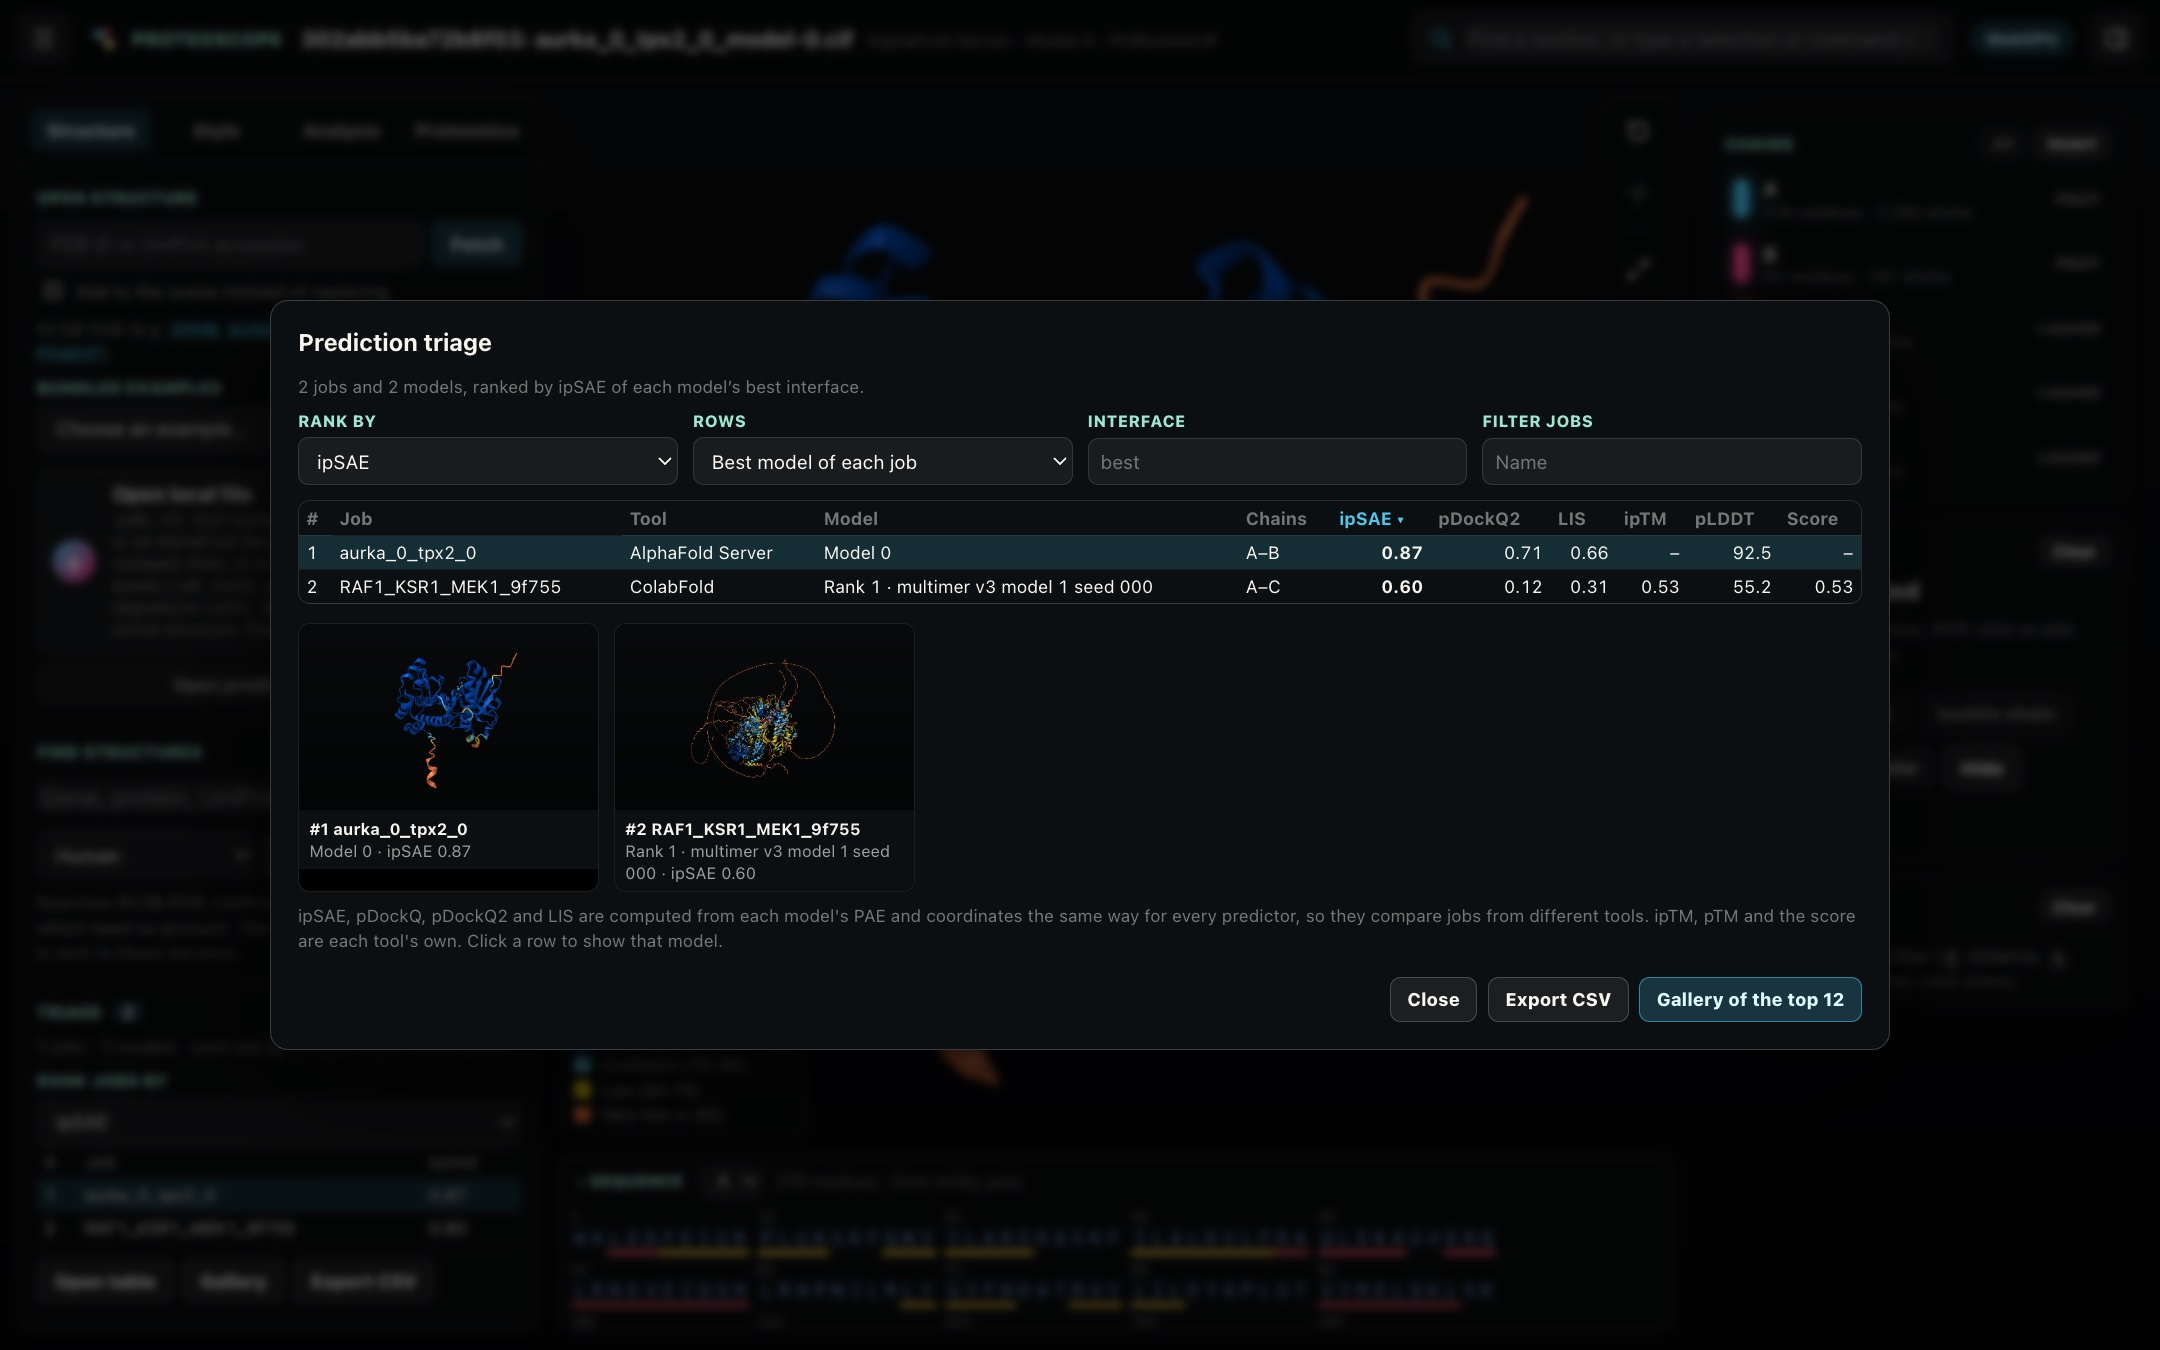
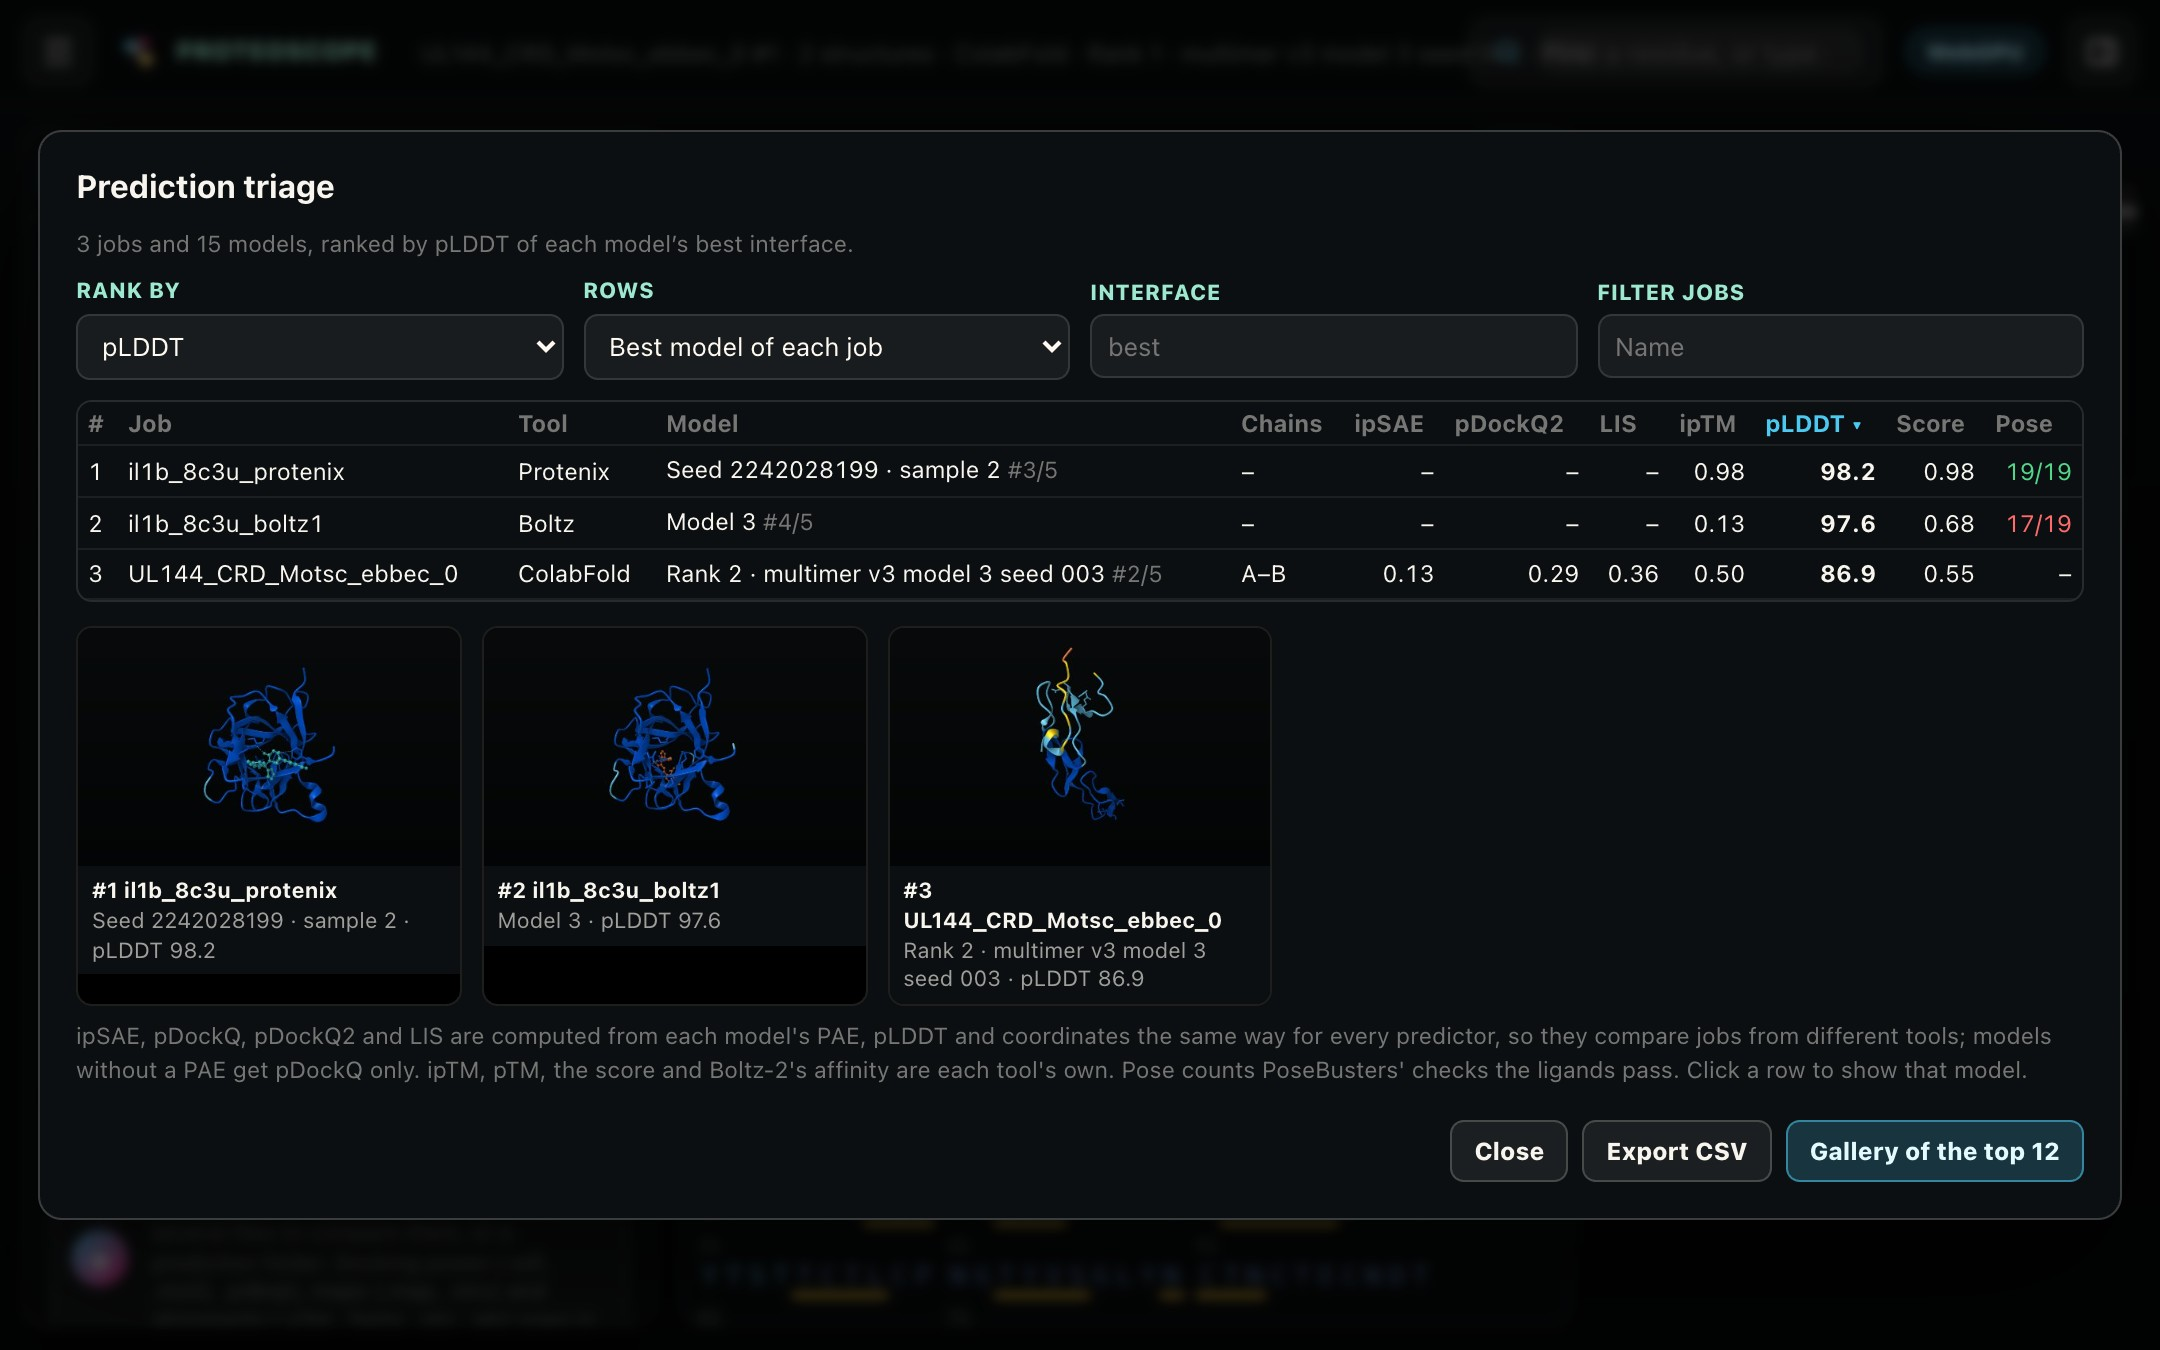
Prepare release 0.10.0
- Version 0.10.0 in main.go, CITATION.cff and the page's asset tags;
  CHANGELOG dated.
- A README image of a ligand given as SMILES: a Protenix model of the 8C3U
  co-folding example with its stereocenter inverted against the SMILES.
- The triage image retaken from the bundled prediction examples: Protenix,
  Boltz-1 and ColabFold jobs on one table, with interface scores and pose
  checks.
- The ligand card's note names the Protenix input JSON.
- Ligand chemistry, sessions and CSV files checked against v0.9.0: the
  bundled structures give the same interactions, ligand cards and pose
  checks; sessions open in both directions; CSV columns are unchanged.

diff --git a/web/app.js b/web/app.js
@@ -2259,7 +2259,7 @@ function renderPoseChecks(entry, residue) {
   const notes = [];
   if (!result.typed) {
     notes.push(entry.prediction
-      ? 'Only the contact checks ran: no bond orders are known for this ligand. For a ligand given to the predictor as SMILES, open the job\'s input with its results (a Boltz YAML, a Chai-1 FASTA; AlphaFold 3 keeps it in the folder).'
+      ? 'Only the contact checks ran: no bond orders are known for this ligand. For a ligand given to the predictor as SMILES, open the job\'s input with its results (a Boltz YAML, a Chai-1 FASTA, a Protenix JSON; AlphaFold 3 keeps it in the folder).'
       : 'Only the contact checks ran: this ligand has no dictionary entry and its file gives no bond orders.');
   }
   else if (!result.stereo) notes.push(result.stereoPending ? 'Stereocenters are compared once the dictionary entry arrives.' : 'No dictionary coordinates to compare stereocenters with.');

diff --git a/web/index.html b/web/index.html
@@ -6,7 +6,7 @@
     <meta name="theme-color" content="#050708" />
     <title>Proteoscope</title>
     <link rel="icon" href="/favicon.svg" type="image/svg+xml" />
-    <link rel="stylesheet" href="/styles.css?v=0.9.0" />
+    <link rel="stylesheet" href="/styles.css?v=0.10.0" />
   </head>
   <body>
     <main id="app" class="left-open right-open sequence-open">
@@ -917,6 +917,6 @@
         </form>
       </dialog>
     </main>
-    <script type="module" src="/app.js?v=0.9.0"></script>
+    <script type="module" src="/app.js?v=0.10.0"></script>
   </body>
 </html>

diff --git a/main.go b/main.go
@@ -26,7 +26,7 @@ import (
 //go:embed web/index.html web/styles.css web/app.js web/favicon.svg web/lib/*.js data
 var content embed.FS
 
-var version = "0.9.0"
+var version = "0.10.0"
 
 type sample struct {
 	ID             string `json:"id"`

diff --git a/proteoscope-spec/roadmap.md b/proteoscope-spec/roadmap.md
@@ -10,8 +10,9 @@ evidence; `wave9`: prediction checks; `wave10`: headless triage and SMILES
 ligands), a review of the bundled
 examples and of the public databases Proteoscope can use without API keys, and
 a prioritized plan for what comes next. Waves 1 to 6 were released together
-as version 0.6.0, wave 7 as version 0.7.0, wave 8 as version 0.8.0 and wave 9
-as version 0.9.0 ([CHANGELOG.md](../CHANGELOG.md)).
+as version 0.6.0, wave 7 as version 0.7.0, wave 8 as version 0.8.0, wave 9
+as version 0.9.0 and wave 10 as version 0.10.0
+([CHANGELOG.md](../CHANGELOG.md)).
 
 ## 1. Where v0.4 stood
 
@@ -1440,6 +1441,7 @@ orders, charges and the stereochemistry the SMILES states.
 | Boltz (`LIG1`, atoms named by canonical rank, the YAML beside the results) and Chai-1 (`LIG2`, `C1_1` names, the FASTA in the folder) | 19 of 19 checks each |
 | Erlotinib in 1M17 with only its `_chem_comp_bond` loop, as OpenFold3 writes | The same bond orders as with the complete definition; all 17 checks pass |
 | A session saved and opened again | The SMILES ligand keeps its chemistry: "All 4 stereocenters are as in the SMILES" |
+| Ligand chemistry, sessions and CSV files against v0.9.0 | The 17 bundled structures with ligands give the same 715 interactions, ligand cards and pose checks (only a detail's wording changed); CSV columns are unchanged. A v0.9.0 session of a Protenix job opens as saved, and a v0.10.0 session opens in v0.9.0, which ignores the SMILES |
 | The 8C3U co-folding example (Boltz-1 and Protenix, 10 models) against RDKit's `AssignStereochemistryFrom3D` | The same verdict for all 10 models: Boltz-1 models 2–4 and Protenix samples 1 and 3 inverted; Boltz-1's contact failure confirmed (O26 2.08 Å from Lys103 NZ, 0.66 of the van der Waals sum) |
 
 ## 13. The bundled examples

diff --git a/README.md b/README.md
@@ -817,6 +817,8 @@ model that inverted a stereocenter fails. Only the marks RDKit keeps count
 (not those of a center with two equivalent neighbors, say), and a symmetric
 molecule such as a meso compound is compared under its best pairing.
 
+![Interleukin-1β co-folded with a small-molecule antagonist by Protenix (the 8C3U-COFOLDING example): the ligand drawn with the bond orders of the SMILES the job was given, and its pose checks, 18 of 19 passing, with the stereocenter C9 inverted against the SMILES](docs/images/smiles-stereo.jpg)
+
 | Tool | Where the SMILES comes from |
 | --- | --- |
 | AlphaFold 3 | `<job>_data.json` in the output folder, read with it |
@@ -832,7 +834,7 @@ and the SMILES of its ligands.
 
 ### Batch triage
 
-![Two predictions from two tools ranked on one table: Aurora A with TPX2 from AlphaFold Server (the example of the IPSAE repository) and RAF1–KSR1–MEK1 from ColabFold, with ipSAE, pDockQ2, LIS, ipTM and pLDDT, and a gallery of the models](docs/images/prediction-triage.jpg)
+![The two bundled prediction examples on one table, three jobs from three tools ranked by pLDDT: interleukin-1β co-folded with a ligand by Protenix and by Boltz-1, whose ligands get pose checks (19 of 19 pass for Protenix's best model, 17 of 19 for Boltz-1's), and UL144 with the MOTS-c peptide from ColabFold, whose two chains get ipSAE, pDockQ2 and LIS; below, a gallery of the three models](docs/images/prediction-triage.jpg)
 
 A design campaign or a screen of interaction partners produces many jobs,
 more than anyone opens one by one. Drop or choose several prediction folders

diff --git a/CHANGELOG.md b/CHANGELOG.md
@@ -1,6 +1,6 @@
 # Changelog
 
-## Unreleased
+## 0.10.0 (2026-09-29)
 
 - `proteoscope triage <folders>` ranks prediction jobs without a window, for
   clusters and pipelines: it prints the ranking and writes the CSV, the
@@ -10,10 +10,9 @@
 - Ligands given to a structure predictor as SMILES now get their bond orders,
   charges and stereochemistry from the SMILES: from AlphaFold 3's
   `_data.json`, or a Boltz, Chai-1 or Protenix input opened with the
-  results. They are
-  drawn and typed like dictionary ligands and get every pose check, with
-  stereocenters and double bonds compared with the SMILES. OpenFold3's ligand
-  bond orders, which were dropped, are now read.
+  results. They are drawn and typed like dictionary ligands and get every
+  pose check, with stereocenters and double bonds compared with the SMILES.
+  OpenFold3's ligand bond orders, which were dropped, are now read.
 - `triage gallery <n> width <px>` renders larger gallery images for scripts.
 - Two prediction examples in the Examples menu, opened as prediction folders:
   interleukin-1β co-folded with a ligand by Boltz-1 and Protenix (from Runs

diff --git a/proteoscope-spec/tasks.md b/proteoscope-spec/tasks.md
@@ -492,3 +492,6 @@ the completed v0.1 application.
 
 - [x] 101. Prediction examples: folder entries in `data/examples.json` served with their files, opened as prediction folders; 8C3U co-folding (Boltz-1 and Protenix, Runs N' Poses) and UL144–MOTS-c (ColabFold), with `data/predictions/README.md` for sources, licenses and changes
   - _Requirements: 33, 56_
+
+- [x] 102. Release 0.10.0: version in `main.go`, `CITATION.cff` and the page's asset tags, `CHANGELOG.md`, a README image of a stereocenter checked against the SMILES, the triage image retaken from the bundled prediction examples; ligand chemistry, sessions and CSV files checked against v0.9.0
+  - _Requirements: 45, 56_
